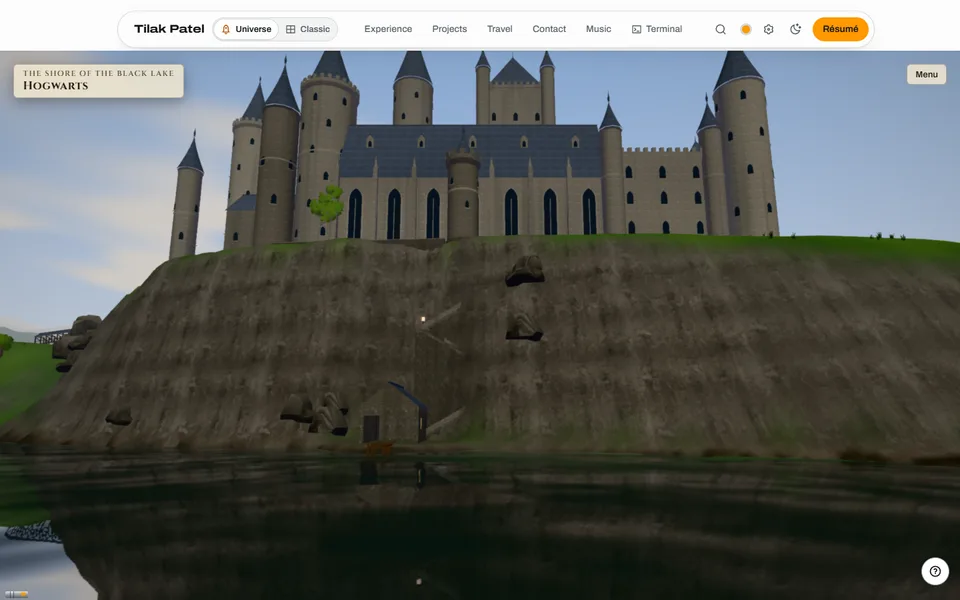
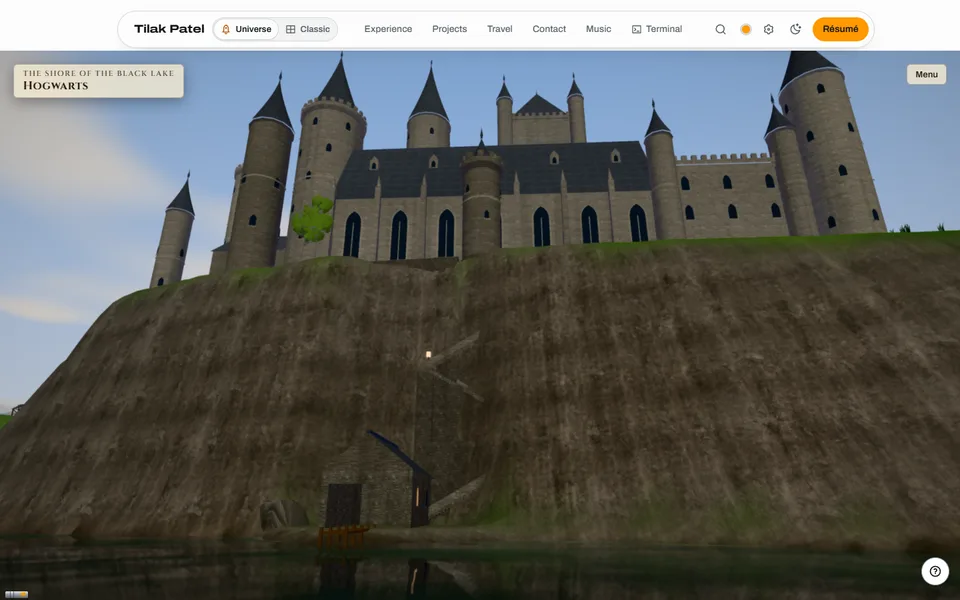
Hogwarts grounds: the cliffs in broken rock, the rocks on the ground, the lawn mown, the slate in relief
The owner's look at /hogwarts found the cheap things wrong; these are the
fixes that cost no new bytes:

- The cliffs: the rock's scan multiplied with itself at a third of its
  size, turned (no tile repeats on a face), and a triplanar detail normal
  (the whiteout blend) on everything steep, at its own size near and at
  seven times it never faded, so a crag takes the light as broken rock and
  not as one smeared map.
- The rocks sit on the lowest ground under their footprints (the kit's
  rocks' radii), so a downhill side is never in the air; no rock on a face
  steeper than about 63 degrees, where any stone hung off it.
- The lawn wears the grass scan at five times its size, never faded, so
  turf a hundred metres off reads in patches and not as a flat green.
- The castle: the slate's normal map read along the roof (its courses level
  round a cone and along an eave), each slate a shade of its own, the tone a
  dark grey and not a blue; each ashlar block a shade of its own at the
  blocks' size, and the stone's relief stronger.

The castle's kit stays as the colliders and the night's windows until the
hero models replace its look. No new textures; the ground's steep relief is
six more samples where scans are drawn (mid and up).

Claude-Session: https://claude.ai/code/session_01NikSmjVZTJrvEkpqwUPNZp

diff --git a/src/components/hogwarts/world/castle/materials.js b/src/components/hogwarts/world/castle/materials.js
@@ -27,9 +27,9 @@
 
 import * as THREE from 'three';
 import { MeshLambertNodeMaterial } from 'three/webgpu';
-import { attribute, float, mix, normalWorld, positionWorld, sin, smoothstep, texture, uniform, uv, vec3 } from 'three/tsl';
+import { attribute, cameraViewMatrix, cross, float, floor, mix, normalWorld, normalize, positionWorld, sin, smoothstep, texture, uniform, uv, vec2, vec3, vec4 } from 'three/tsl';
 import { loadCore, wear } from '../../../../lib/three/coreNodes';
-import { onColor } from '../../../../lib/three/hookNodes';
+import { onColor, onNormal } from '../../../../lib/three/hookNodes';
 import { noiseWith } from '../../../../lib/three/noiseNodes';
 import { CASTLE_FLOOR } from '../../rules/places';
 
@@ -43,8 +43,8 @@ export const TONES = {
   old: lin(0x847e74),
   plinth: lin(0x6f6a62),
   pier: lin(0x7a7469),
-  slate: lin(0x5d636c),
-  slateDark: lin(0x4a4f57),
+  slate: lin(0x56585b),
+  slateDark: lin(0x45474a),
   lead: lin(0x5a6068),
   timber: lin(0x5a3f2a),
   oak: lin(0x3e2a1c),
@@ -64,7 +64,7 @@ const blank = (r, g, b) => {
 
 export function createCastleMaterials({ house = null, tier = 'high' } = {}) {
   const uniforms = { uNight: uniform(0), uSnow: uniform(0), uWet: uniform(0), uTime: uniform(0), uSeed: uniform(new THREE.Vector3(2.7, 8.1, 4.4)) };
-  const { noise } = noiseWith(uniforms.uSeed, { octaves: 2 });
+  const { noise, hash13 } = noiseWith(uniforms.uSeed, { octaves: 2 });
   const made = [];
   const lambert = (opts) => {
     const m = house ? house.material({ vertexColors: true, ...opts }) : new MeshLambertNodeMaterial({ vertexColors: true, ...opts });
@@ -74,7 +74,7 @@ export function createCastleMaterials({ house = null, tier = 'high' } = {}) {
   const scans = tier !== 'low';
 
   // the weather on stone: a damp foot, streaks, grime, the snow on what faces up, the wet
-  const weathered = (m, { streaks = 1, snowy = 1 } = {}) => {
+  const weathered = (m, { streaks = 1, snowy = 1, blocks = 1 } = {}) => {
     onColor(
       m,
       (d) => {
@@ -83,7 +83,10 @@ export function createCastleMaterials({ house = null, tier = 'high' } = {}) {
         const foot = smoothstep(2.5, 0, p.y.sub(CASTLE_FLOOR)).max(smoothstep(4, 0, p.y)).mul(0.22);
         const grime = noise(p.mul(vec3(0.05, 0.09, 0.05)), uniforms.uSeed).mul(0.5).add(0.5);
         const streak = noise(p.mul(vec3(0.9, 0.035, 0.9)), uniforms.uSeed).mul(0.5).add(0.5);
-        const dark = float(1).sub(foot).sub(grime.mul(0.16)).sub(smoothstep(0.55, 0.9, streak).mul(0.14 * streaks));
+        // (each block a shade of its own, a block the size the ashlar’s are: from across the lake,
+        // where the scan’s courses are a pixel, the wall still reads as built of stones)
+        const block = hash13(floor(p.mul(vec3(0.8, 1.6, 0.8))), uniforms.uSeed).sub(0.5).mul(0.16 * blocks);
+        const dark = float(1).sub(foot).sub(grime.mul(0.16)).sub(smoothstep(0.55, 0.9, streak).mul(0.14 * streaks)).add(block);
         const c = d.rgb.mul(dark).mul(mix(float(1), float(0.72), uniforms.uWet));
         const up = smoothstep(0.55, 0.85, normalWorld.y).mul(uniforms.uSnow).mul(snowy);
         return mix(c, vec3(0.86, 0.88, 0.92), up.mul(smoothstep(0.2, 0.5, grime.add(0.25))));
@@ -103,26 +106,45 @@ export function createCastleMaterials({ house = null, tier = 'high' } = {}) {
     weathered(m);
     return { m, role };
   };
-  const ashlar = stone('ashlar', { metres: 2.5, strength: 0.8, normal: 0.9 });
-  const rubble = stone('rubble', { metres: 2.5, strength: 0.85, normal: 1 });
+  const ashlar = stone('ashlar', { metres: 2.5, strength: 0.85, normal: 1.3 });
+  const rubble = stone('rubble', { metres: 2.5, strength: 0.9, normal: 1.4 });
 
   // the slate along the roof’s own metres (mesh.js’s uv), its courses level
   const slateMap = texture(blank(131, 131, 131));
-  const slateK = uniform(new THREE.Vector2(1 / 3, 0.74 ** 2.2));
+  const slateNormal = texture(blank(128, 128, 255));
+  const slateK = uniform(new THREE.Vector3(1 / 3, 0.74 ** 2.2, 0));
   const slate = lambert({ color: 0xffffff });
-  if (scans)
+  if (scans) {
     onColor(
       slate,
       (d) => {
         const s = slateMap.sample(uv().mul(slateK.x)).rgb.div(slateK.y.max(0.05));
-        return d.rgb.mul(mix(vec3(1), s, 0.85));
+        // (a slate here and there a little lighter or darker, by its course and its place in it)
+        const one = hash13(vec3(floor(uv().mul(vec2(3.2, 5.5))), 1), uniforms.uSeed).sub(0.5).mul(0.22).add(1);
+        return d.rgb.mul(mix(vec3(1), s, 0.95)).mul(one);
       },
       'castle:slate',
       { slateMap, slateK },
     );
-  weathered(slate, { streaks: 0.4, snowy: 1.4 });
+    // the slates’ relief along the roof: its normal map read in a frame whose across is level
+    // (round a cone, along a gable’s eave) and whose up runs up the slope, as the courses do
+    onNormal(
+      slate,
+      (normal) => {
+        const n = normalize(normalWorld);
+        const across = normalize(cross(vec3(0, 1, 0), n).add(vec3(1e-4, 0, 0)));
+        const upSlope = cross(n, across);
+        const t = slateNormal.sample(uv().mul(slateK.x)).xyz.mul(2).sub(1).mul(slateK.z).mul(1.2);
+        const shift = across.mul(t.x).add(upSlope.mul(t.y));
+        return normalize(normal.add(cameraViewMatrix.mul(vec4(shift, 0)).xyz));
+      },
+      'castle:slate:n',
+      { slateNormal, slateK },
+    );
+  }
+  weathered(slate, { streaks: 0.4, snowy: 1.4, blocks: 0 });
 
-  const lead = weathered(lambert({ color: 0xffffff }), { streaks: 0.6 });
+  const lead = weathered(lambert({ color: 0xffffff }), { streaks: 0.6, blocks: 0 });
   const timber = lambert({ color: 0xffffff });
   const iron = lambert({ color: 0xffffff });
 
@@ -153,6 +175,10 @@ export function createCastleMaterials({ house = null, tier = 'high' } = {}) {
         .then(() => loadCore('slate'))
         .then((got) => {
           if (got?.map) slateMap.value = got.map;
+          if (got?.normalMap) {
+            slateNormal.value = got.normalMap;
+            slateK.value.z = 1;
+          }
         })
         .catch(() => {})
     : Promise.resolve();

diff --git a/src/components/hogwarts/world/ground.js b/src/components/hogwarts/world/ground.js
@@ -242,13 +242,19 @@ export function createGroundMaterial({ house = null, groundMap, coverMap, tier =
         detail.assign(mix(detail, flat('floor', xz), smoothstep(0.3, 0.8, cv.x)));
         detail.assign(mix(detail, flat('way', xz), smoothstep(0.2, 0.7, cv.z)));
         const rocky = steepOf().max(cv.w.mul(0.8));
-        detail.assign(mix(detail, tri('steep', positionWorld), rocky));
+        // (the rock at its own size and at a third of it turned, multiplied: no tile repeats on a cliff)
+        const rock = tri('steep', positionWorld).mul(tri('steep', positionWorld.mul(0.33).add(vec3(17.3, 5.1, 9.7)))).mul(0.95);
+        detail.assign(mix(detail, rock, rocky));
         c = c.mul(mix(vec3(1), detail, near().mul(0.85)));
         // (a cliff seen from across the water: the rock’s scan at seven times its size, never faded,
         // and its strata, so a crag reads as rock at any distance and not as a grey slope)
         const big = tri('steep', positionWorld.mul(0.14));
         const strata = sin(positionWorld.y.mul(0.85).add(big.x.mul(3))).mul(0.12).add(1);
         c = c.mul(mix(vec3(1), big.mul(strata).mul(1.05), rocky.mul(0.85)));
+        // (and the lawns the same way: the grass’s scan at five times its size, never faded, so a lawn
+        // a hundred metres off is mown turf in patches and not a flat green)
+        const sward = flat('grass', xz.mul(0.2));
+        c = c.mul(mix(vec3(1), sward, float(1).sub(rocky).mul(smoothstep(0.3, 0.8, cv.x).oneMinus()).mul(0.6)));
       }
       // the wet: darker; the snow: lying on what is level and above the water, thin where it is steep
       c = c.mul(mix(float(1), float(0.78), uWet));
@@ -269,7 +275,24 @@ export function createGroundMaterial({ house = null, groundMap, coverMap, tier =
         const read = (key) => u[key].normal.sample(xz.mul(u[key].k.x)).xyz.mul(2).sub(1).mul(u[key].k.z);
         const t = mix(mix(read('grass'), read('floor'), smoothstep(0.3, 0.8, cv.x)), read('way'), smoothstep(0.2, 0.7, cv.z));
         const k = near().mul(near()).mul(steepOf().oneMinus()).mul(0.5).mul(uSnow.oneMinus());
-        return normalize(normal.add(cameraViewMatrix.mul(vec4(t.x.mul(k), 0, t.y.mul(k), 0)).xyz));
+        const flatN = cameraViewMatrix.mul(vec4(t.x.mul(k), 0, t.y.mul(k), 0)).xyz;
+        // the rock’s relief on what is steep, triplanar (Ben Golus’s whiteout blend), near at its own
+        // size and, never faded, at seven times it, so a cliff takes the light as broken rock
+        const n = normalize(normalWorldGeometry);
+        const w = pow(abs(n), vec3(4)).toVar();
+        w.divAssign(w.x.add(w.y).add(w.z));
+        const udn = (p, s) => {
+          const unpack = (at) => u.steep.normal.sample(at).xyz.mul(2).sub(1).mul(u.steep.k.z);
+          const q = p.mul(u.steep.k.x);
+          const tx = unpack(q.zy);
+          const ty = unpack(q.xz);
+          const tz = unpack(q.xy);
+          return normalize(vec3(tx.xy.mul(s).add(n.zy), n.x).zyx.mul(w.x).add(vec3(ty.xy.mul(s).add(n.xz), n.y).xzy.mul(w.y)).add(vec3(tz.xy.mul(s).add(n.xy), n.z).mul(w.z)));
+        };
+        const rocky = steepOf().max(cv.w.mul(0.8)).mul(uSnow.mul(0.6).oneMinus());
+        const rockN = udn(positionWorld, near().mul(0.9)).add(udn(positionWorld.mul(0.14), float(0.7))).sub(n.mul(2));
+        const steepN = cameraViewMatrix.mul(vec4(rockN.mul(rocky), 0)).xyz;
+        return normalize(normal.add(flatN).add(steepN));
       },
       'grounds:relief',
       nodes,

diff --git a/src/components/hogwarts/world/scatter.js b/src/components/hogwarts/world/scatter.js
@@ -36,6 +36,9 @@ const BIRCH = { Leaves_Birch: { recolour: '#6f8a3e' } };
 const OAK = { Leaves_NormalTree: { recolour: '#3e5a2a' }, Bark_NormalTree: { recolour: '#5a4c3e' } };
 const STONE = { Rocks: { recolour: '#5e5950' } };
 
+// the kit’s rocks’ footprints (metres from the middle at scale 1, a little inside their radius)
+const ROCK_FOOT = { Rock_Medium_1: 1.5, Rock_Medium_2: 1.4, Rock_Big_1: 2.4, Rock_Big_2: 2.8 };
+
 export const ROWS = [
   // the Forbidden Forest: pines close and dark, a giant among them now and then, ferns and dark bushes under
   { model: 'Pine_2', on: 'forest', per100: 0.4, clump: 3, spread: 7, scale: [1.3, 1.9], slope: 1.1, tint: PINES, reach: 'forest' },
@@ -60,9 +63,9 @@ export const ROWS = [
   { model: 'Pine_4', on: 'moor', per100: 0.008, clump: 3, spread: 9, scale: [1.1, 1.6], slope: 1, tint: PINES },
   // the steep: rocks out of the slopes (the crag’s cliffs, the knolls’ flanks)
   // (and crags: the kit’s big rocks two and three times over, sunk into the cliffs, so a cliff has a broken face)
-  { model: 'Rock_Medium_1', on: 'steep', per100: 0.35, clump: 3, spread: 4, scale: [1.2, 2.8], slope: 4, tint: STONE },
-  { model: 'Rock_Big_1', on: 'steep', per100: 0.06, clump: 2, spread: 6, scale: [1.8, 3.6], slope: 4, tint: STONE, sink: 0.35 },
-  { model: 'Rock_Big_2', on: 'steep', per100: 0.05, clump: 2, spread: 6, scale: [1.8, 3.4], slope: 4, tint: STONE, sink: 0.35 },
+  { model: 'Rock_Medium_1', on: 'steep', per100: 0.35, clump: 3, spread: 4, scale: [1.2, 2.8], slope: 2, tint: STONE, sink: 0.12 },
+  { model: 'Rock_Big_1', on: 'steep', per100: 0.06, clump: 2, spread: 6, scale: [1.8, 3.6], slope: 2, tint: STONE, sink: 0.35 },
+  { model: 'Rock_Big_2', on: 'steep', per100: 0.05, clump: 2, spread: 6, scale: [1.8, 3.4], slope: 2, tint: STONE, sink: 0.35 },
   // the strand: pebbles and a stone or two at the water
   { model: 'Rock_Medium_1', on: 'strand', per100: 0.08, clump: 2, spread: 3, scale: [0.4, 0.9], slope: 1, tint: STONE },
   { model: 'Pebble_Round_1', on: 'strand', per100: 1.2, clump: 6, spread: 3, scale: [0.8, 1.6], slope: 1, kind: 'grass', tint: STONE },
@@ -174,8 +177,13 @@ export function placementsFor(land, i, j, { tier = 'high', rows = ROWS } = {}) {
         if (land.pathAt(x, z) < (row.kind === 'grass' ? 0.6 : 2.2)) continue;
         if (row.on !== 'strand' && row.on !== 'steep' && cleared(x, z)) continue;
         if (land.slopeAt(x, z) > (row.slope ?? 0.7)) continue;
-        // (a crag’s rock sunk a share of its height into the slope, so it stands out of it and not on it)
-        out.push({ model: row.model, x, y: h - 0.12 - (row.sink ?? 0) * scale * 3, z, yaw, scale, tint: row.tint ?? null });
+        // (a rock sits on the lowest ground under its footprint, so its downhill side is never in
+        // the air, and a crag’s rock is sunk a share of its height into the slope besides, so it
+        // stands out of it and not on it)
+        let y = h;
+        const foot = ROCK_FOOT[row.model];
+        if (foot) for (let q = 0; q < 6; q++) y = Math.min(y, land.heightAt(x + Math.cos(q * 1.047) * foot * scale, z + Math.sin(q * 1.047) * foot * scale));
+        out.push({ model: row.model, x, y: y - 0.12 - (row.sink ?? 0) * scale * 3, z, yaw, scale, tint: row.tint ?? null });
       }
     }
   }
